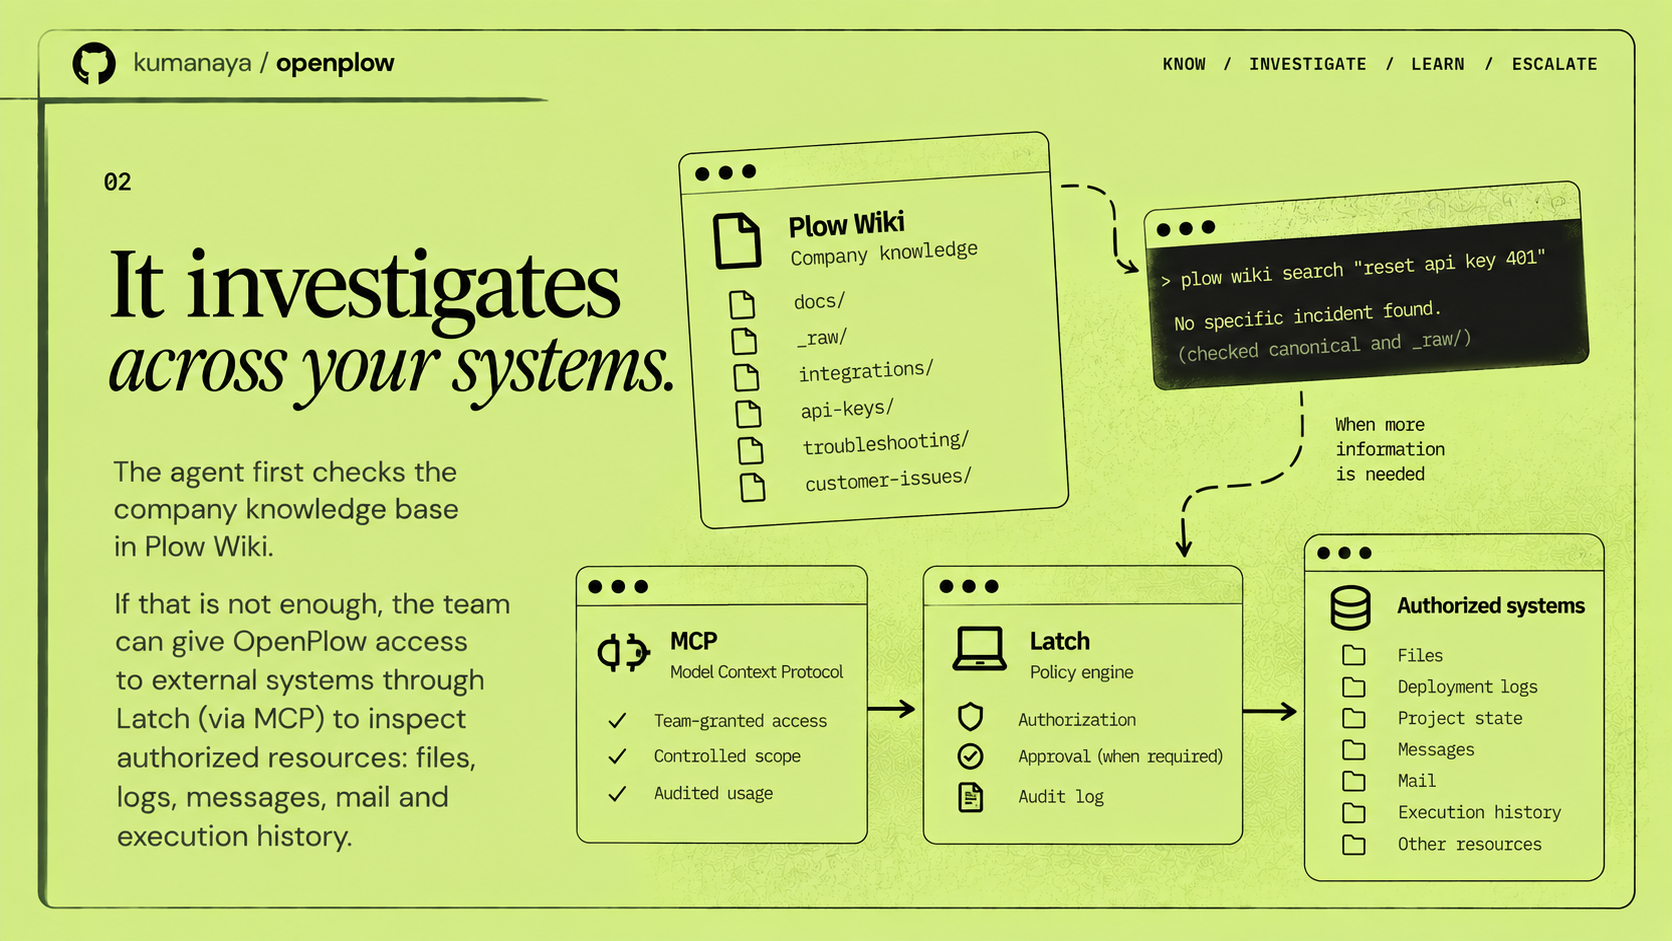
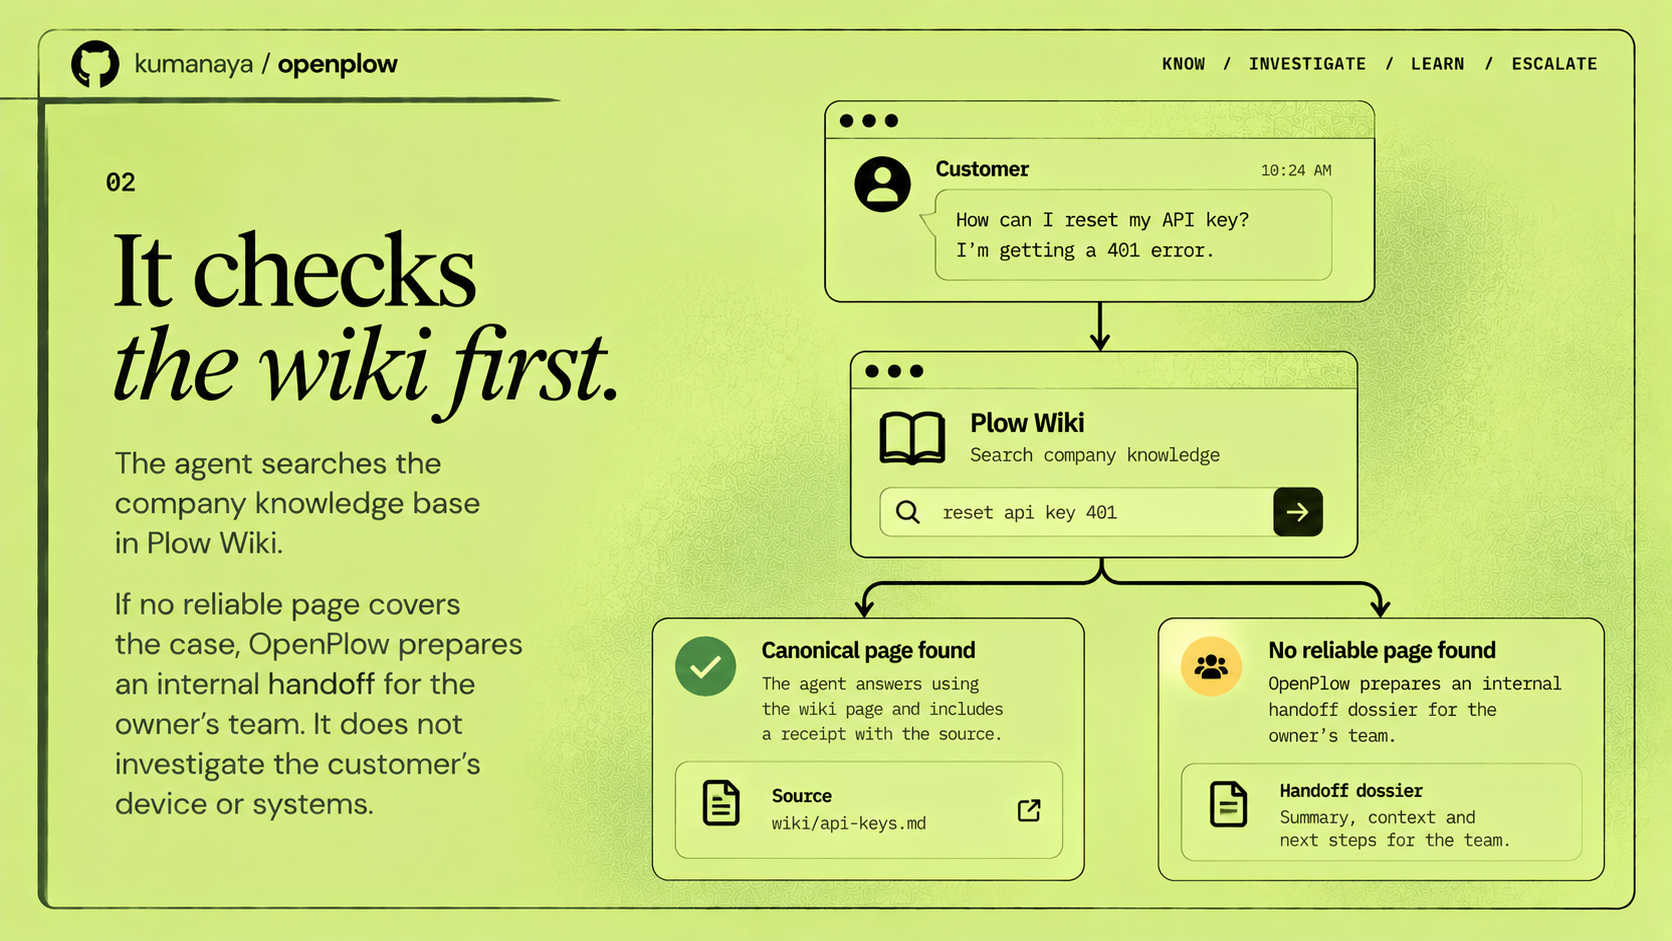
docs(openplow): restore complete workflow gallery

diff --git a/README.md b/README.md
@@ -1,3 +1,11 @@
+<p align="center">
+  <img src="assets/banner.png" alt="OpenPlow concept illustration" width="100%">
+</p>
+
+> **Concept illustration:** this artwork predates the current security model.
+> Customer-facing OpenPlow answers from the wiki or prepares a handoff; Latch
+> is reserved for the operator's separate internal agent.
+
 # OpenPlow Support
 
 **Answers from the product wiki. Hands unanswered cases to the team.**
@@ -57,6 +65,14 @@ screenshots or evidence of a live deployment.
 
 <p align="center">
   <img src="assets/01.png" alt="Illustration of a customer asking OpenPlow for support" width="800">
+</p>
+
+<p align="center">
+  <img src="assets/02.png" alt="Illustration of OpenPlow investigating across authorized systems" width="800">
+</p>
+
+<p align="center">
+  <img src="assets/03.png" alt="Illustration of OpenPlow answering with a wiki receipt" width="800">
 </p>
 
 <p align="center">
